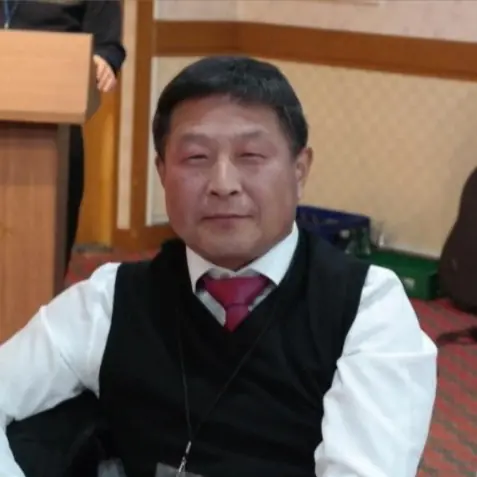
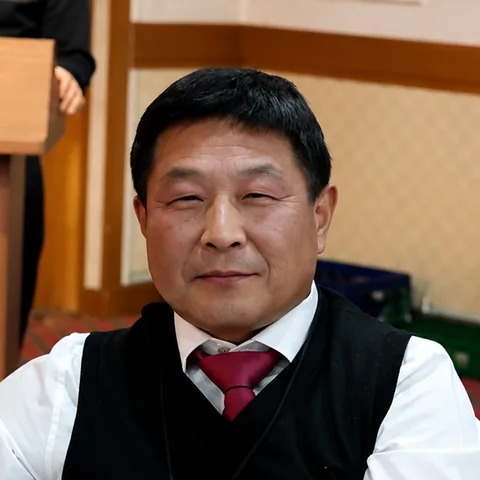
Replace farmer profile photo and product 건고추 photo
- components/Farmer.tsx, public/images/farmer-cover.webp,
  farmer-face.webp: swap the 대표 profile/cover photo for the newly
  supplied picture; fix the cover alt text (no longer depicts drying).
- data/products.ts, public/images/dried-pepper-product.webp: replace
  the 햇 건고추 product card photo with the new chili photo; drop the
  now-unused dried-pepper-bowl.webp.
- scripts/process-images.mjs: remove the 13.jpg/14.jpg farmer jobs and
  the dried-pepper-bowl job since those outputs now come from
  chat-supplied photos processed directly, not photos/ numbered files.

diff --git a/components/Farmer.tsx b/components/Farmer.tsx
@@ -15,7 +15,7 @@ export default function Farmer() {
           <div className="relative h-[200px] overflow-hidden rounded-t-2xl bg-[#EFEAE1] md:h-[280px]">
             <Image
               src="/images/farmer-cover.webp"
-              alt="갈골농원에서 고추를 건조하는 모습"
+              alt="갈골농원 대표"
               fill
               sizes="(min-width: 768px) 1080px, 100vw"
               className="object-cover object-[center_42%]"

diff --git a/data/products.ts b/data/products.ts
@@ -28,7 +28,7 @@ export const products: Product[] = [
     meta: "국내산",
     desc: "세척 후 열풍건조한 통고추입니다.",
     price: null,
-    image: "/images/dried-pepper-bowl.webp",
+    image: "/images/dried-pepper-product.webp",
     available: true,
   },
 ];
